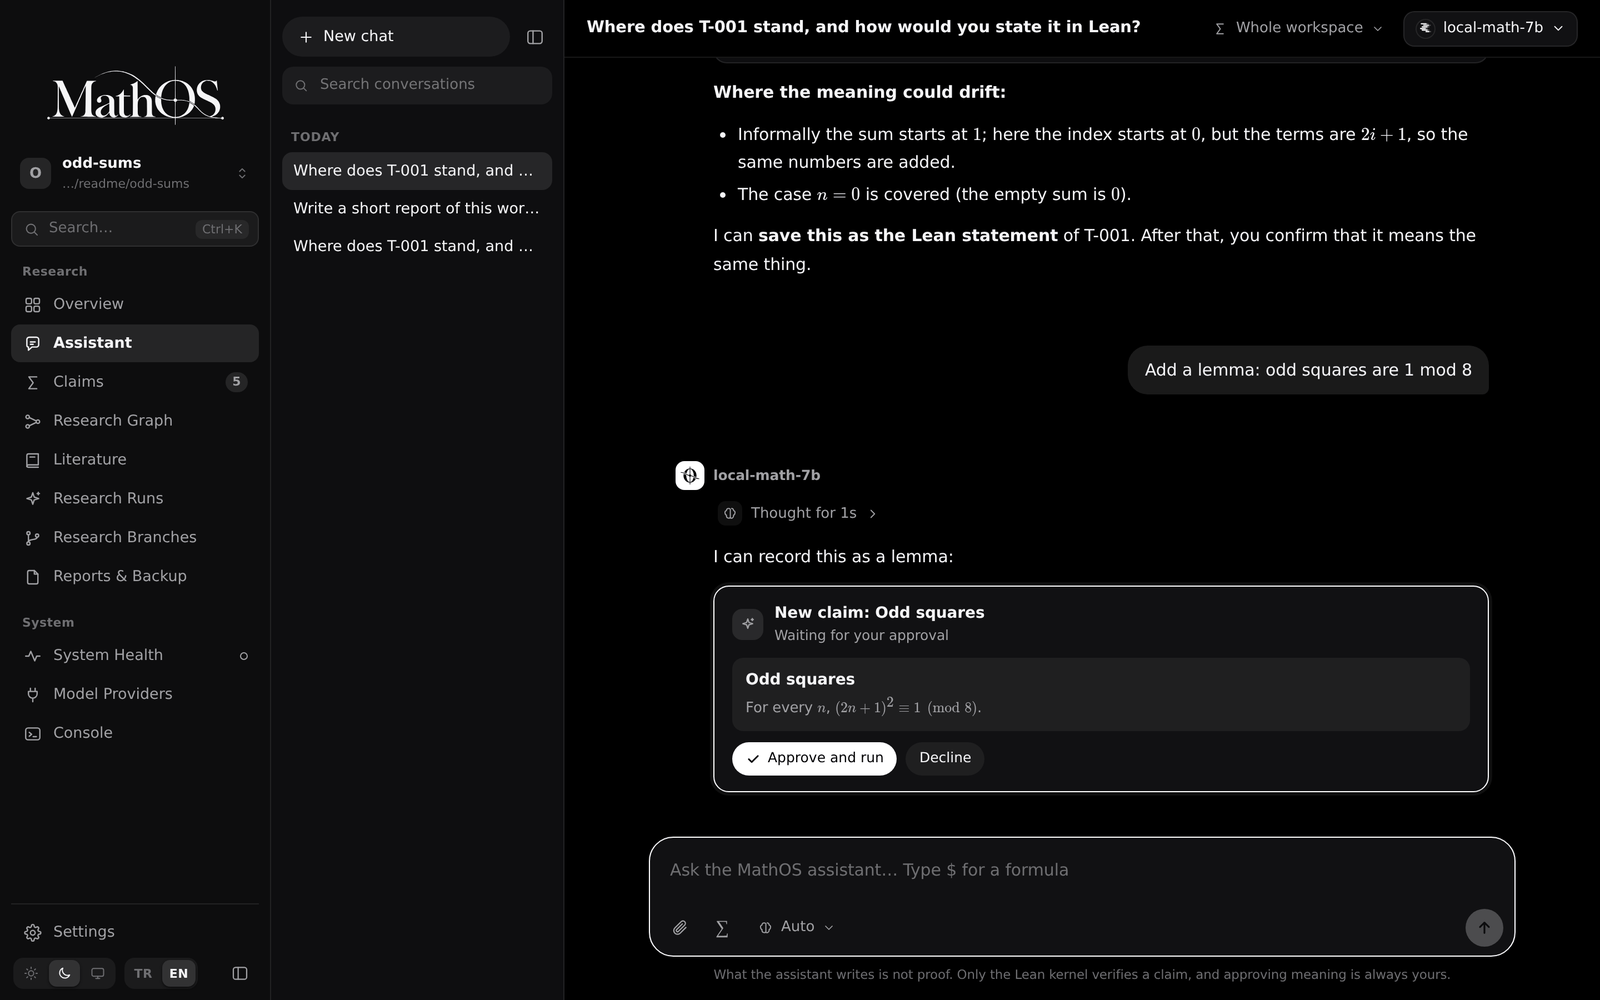
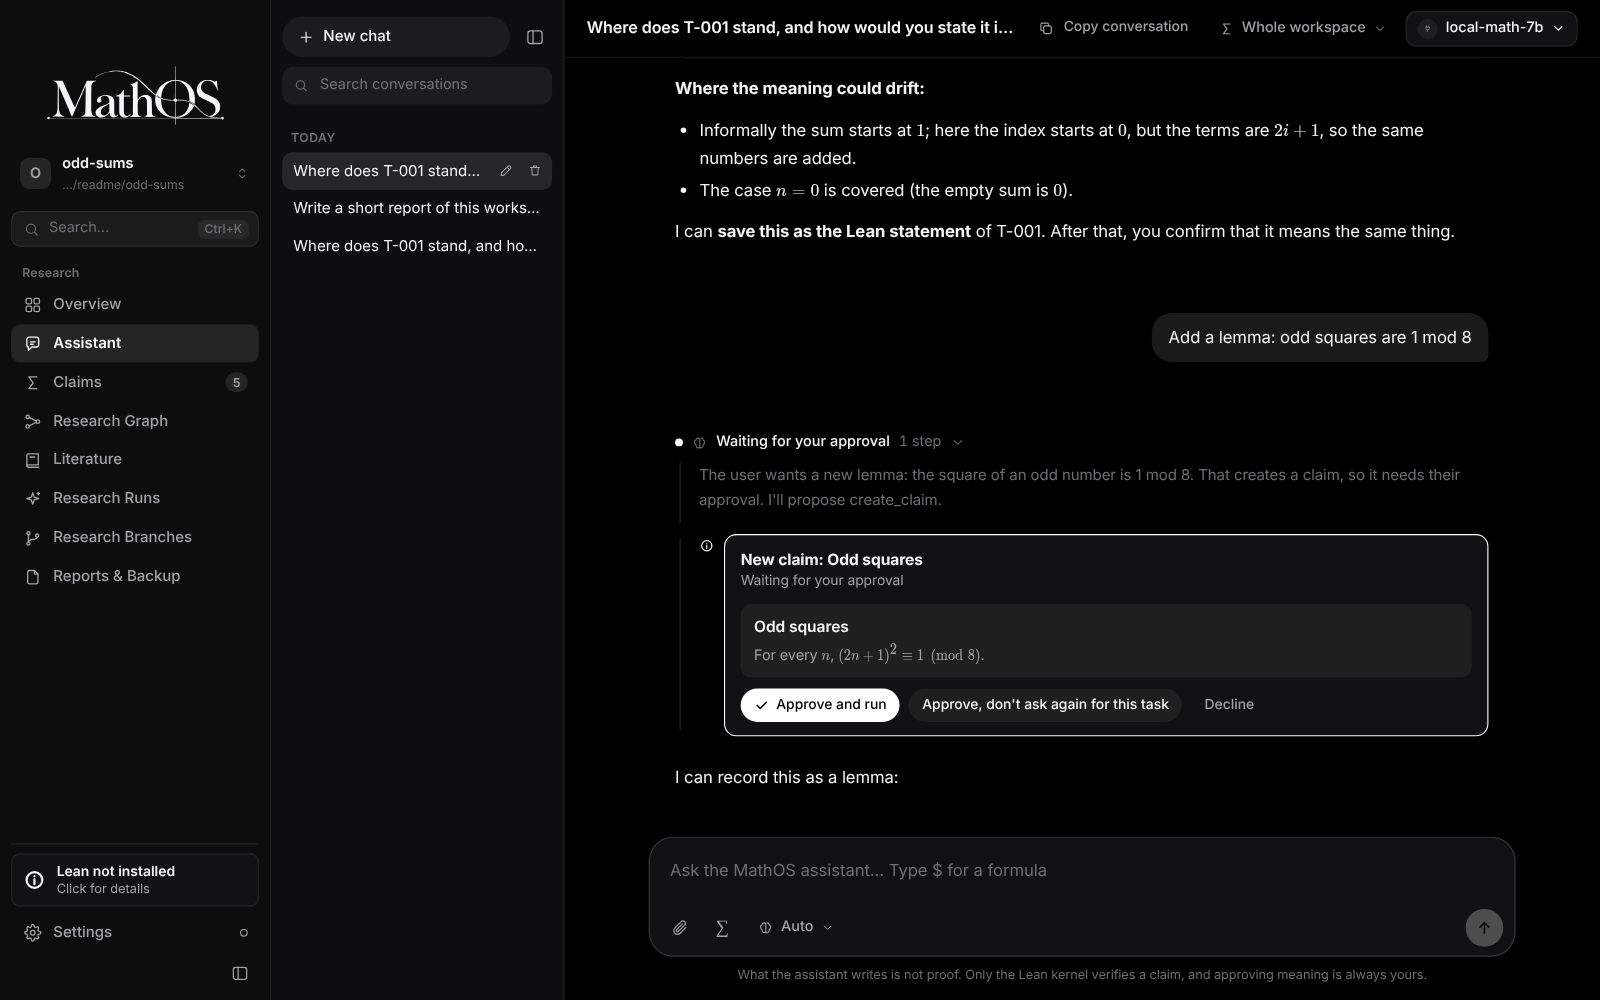
Refresh README screenshots for the Settings sidebar; say "1 step"
The screenshots still showed the System group and the theme and language
switches that moved into Settings. They are retaken from the current app
with the same odd-sums workspace. A research run with one step read
"1 steps" in English.

diff --git a/apps/desktop/src/views/Research.tsx b/apps/desktop/src/views/Research.tsx
@@ -49,7 +49,7 @@ export function Research() {
             {list.map((row) => (
               <li key={row.id}><button className={row.id === selected ? "on" : ""} onClick={() => setSelected(row.id)}>
                 <span className={`run-dot ${shownStatus(row).toLowerCase()}`} />
-                <span className="meta"><strong>{row.id}{row.objectiveClaimId ? ` · ${row.objectiveClaimId}` : ""}</strong><span>{t(`research.status.${shownStatus(row)}` as MessageKey)} · {t("research.steps").replace("{n}", String(row.currentStep))} · {new Date(row.updatedAt).toLocaleString(lang === "tr" ? "tr-TR" : "en-GB", { dateStyle: "short", timeStyle: "short" })}</span></span>
+                <span className="meta"><strong>{row.id}{row.objectiveClaimId ? ` · ${row.objectiveClaimId}` : ""}</strong><span>{t(`research.status.${shownStatus(row)}` as MessageKey)} · {t(row.currentStep === 1 ? "research.stepsOne" : "research.steps").replace("{n}", String(row.currentStep))} · {new Date(row.updatedAt).toLocaleString(lang === "tr" ? "tr-TR" : "en-GB", { dateStyle: "short", timeStyle: "short" })}</span></span>
               </button></li>
             ))}
           </ul>

diff --git a/apps/desktop/src/lib/i18n.ts b/apps/desktop/src/lib/i18n.ts
@@ -777,6 +777,7 @@ const tr = {
   "research.none": "Henüz araştırma çalıştırması yok",
   "research.noneHint": "Ana hedefiniz için bir çalıştırma başlatın; adımları buradan izleyip yönlendirebilirsiniz.",
   "research.steps": "{n} adım",
+  "research.stepsOne": "{n} adım",
   "research.noObjective": "Hedef yok",
   "research.pause": "Duraklat",
   "research.continue": "Otomatik devam et",
@@ -1613,6 +1614,7 @@ const en: Record<MessageKey, string> = {
   "research.none": "No research runs yet",
   "research.noneHint": "Start a run for your objective; follow and steer its steps from here.",
   "research.steps": "{n} steps",
+  "research.stepsOne": "{n} step",
   "research.noObjective": "No objective",
   "research.pause": "Pause",
   "research.continue": "Keep going",
